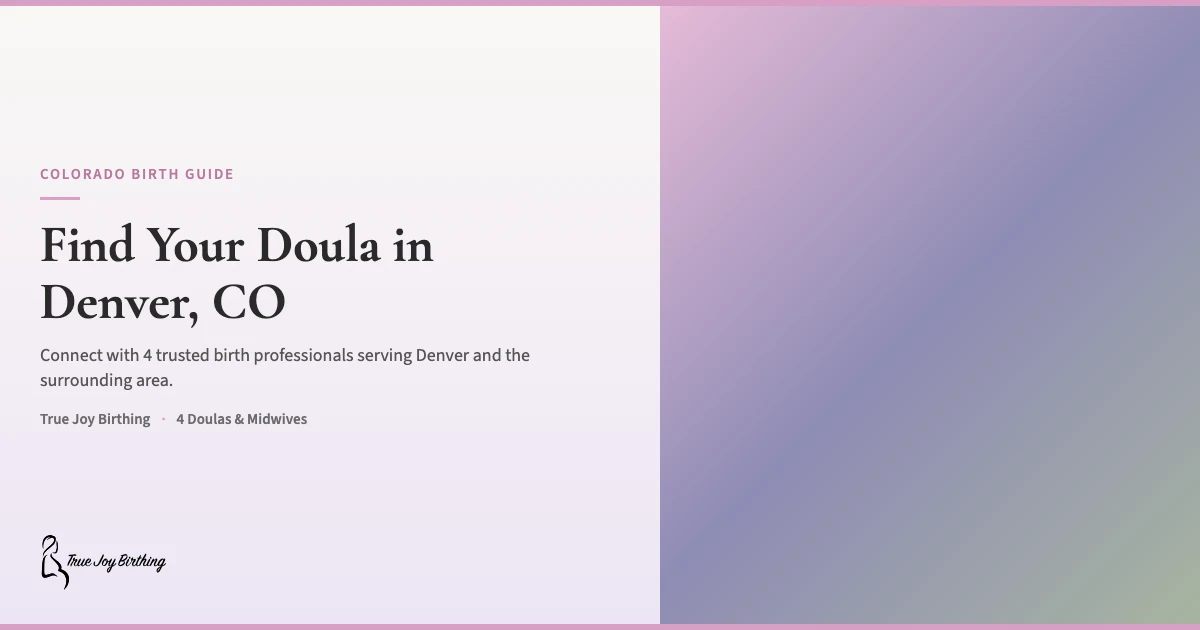
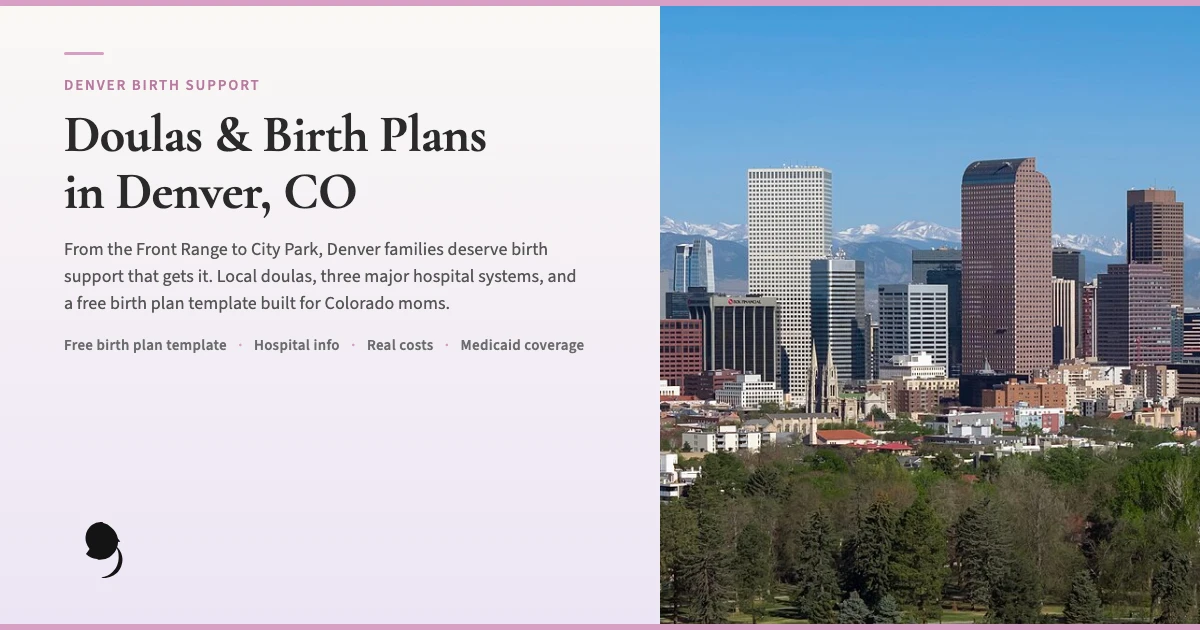
fix: remove deleted Minneapolis video embed, re-render Denver OG image
- G18: Minneapolis video PisXj2I4Kxc confirmed deleted on YouTube (404 oembed).
  Commented out minneapolis-mn entry in video-embeds.ts. Local MP4 still exists
  for re-upload later.
- G29: Denver OG image og-city-denver-co-v5.webp was gradient-only (3650 unique
  colors < 5000 threshold). Re-rendered from scripts/og-render-denver-co.html
  template. Now 58998 unique colors with real Denver skyline photo.

diff --git a/src/data/video-embeds.ts b/src/data/video-embeds.ts
@@ -157,13 +157,15 @@ export const cityVideoEmbeds: Record<string, CityVideoEmbed> = {
     duration: "PT2M07S",
     uploadDate: "2026-06-23T00:00:00-07:00",
   },
-  "minneapolis-mn": {
-    videoId: "PisXj2I4Kxc",
-    title: "Minneapolis Doula & Birth Plan Guide: Costs, Hospitals & Medicaid (First-Time Mom)",
-    description: "Watch the full city guide — doulas, hospitals, costs, and Minnesota Medicaid, all in under 3 minutes.",
-    duration: "PT2M10S",
-    uploadDate: "2026-06-23T00:00:00-07:00",
-  },
+  // minneapolis-mn video removed: PisXj2I4Kxc was deleted/unlisted on YouTube.
+  // Local MP4 and scene data still exist in the remotion project — needs re-upload to YouTube.
+  // "minneapolis-mn": {
+  //   videoId: "PisXj2I4Kxc",
+  //   title: "Minneapolis Doula & Birth Plan Guide: Costs, Hospitals & Medicaid (First-Time Mom)",
+  //   description: "Watch the full city guide — doulas, hospitals, costs, and Minnesota Medicaid, all in under 3 minutes.",
+  //   duration: "PT2M10S",
+  //   uploadDate: "2026-06-23T00:00:00-07:00",
+  // },
   "new-york-ny": {
     videoId: "d8wNiNe1VCc",
     title: "New York City Doula & Birth Plan Guide: Costs, Hospitals & Medicaid (First-Time Mom)",
@@ -320,11 +322,11 @@ export const cityVideoEmbeds: Record<string, CityVideoEmbed> = {
   },
 
 "austin-tx": {
-    videoId: "oy3BafNkls8",
+    videoId: "goIwPTplnic",
     title: "Austin Texas Doula & Birth Plan Guide: Costs, Hospitals & Medicaid (First-Time Mom)",
     description: "Watch the full city guide — doulas, hospitals, costs, and more, all in under 4 minutes.",
-    duration: "PT3M50S",
-    uploadDate: "2026-06-30T00:00:00-06:00",
+    duration: "PT3M49S",
+    uploadDate: "2026-07-03T00:00:00-06:00",
 },
 "orlando-fl": {
     videoId: "YwVwMD2SAkE",
@@ -339,5 +341,12 @@ export const cityVideoEmbeds: Record<string, CityVideoEmbed> = {
     description: "Watch the full city guide — doulas, hospitals, costs, and Florida Medicaid, all in under 5 minutes.",
     duration: "PT5M23S",
     uploadDate: "2026-07-01T00:00:00-06:00",
+},
+"oakland-ca": {
+    videoId: "",
+    title: "Oakland CA Doula & Birth Plan Guide: Costs, Hospitals & Medi-Cal (First-Time Mom)",
+    description: "Watch the full city guide — doulas, hospitals, costs, and more, all in under 5 minutes.",
+    duration: "PT4M29S",
+    uploadDate: "2026-07-02T00:00:00-07:00",
 },
 };
